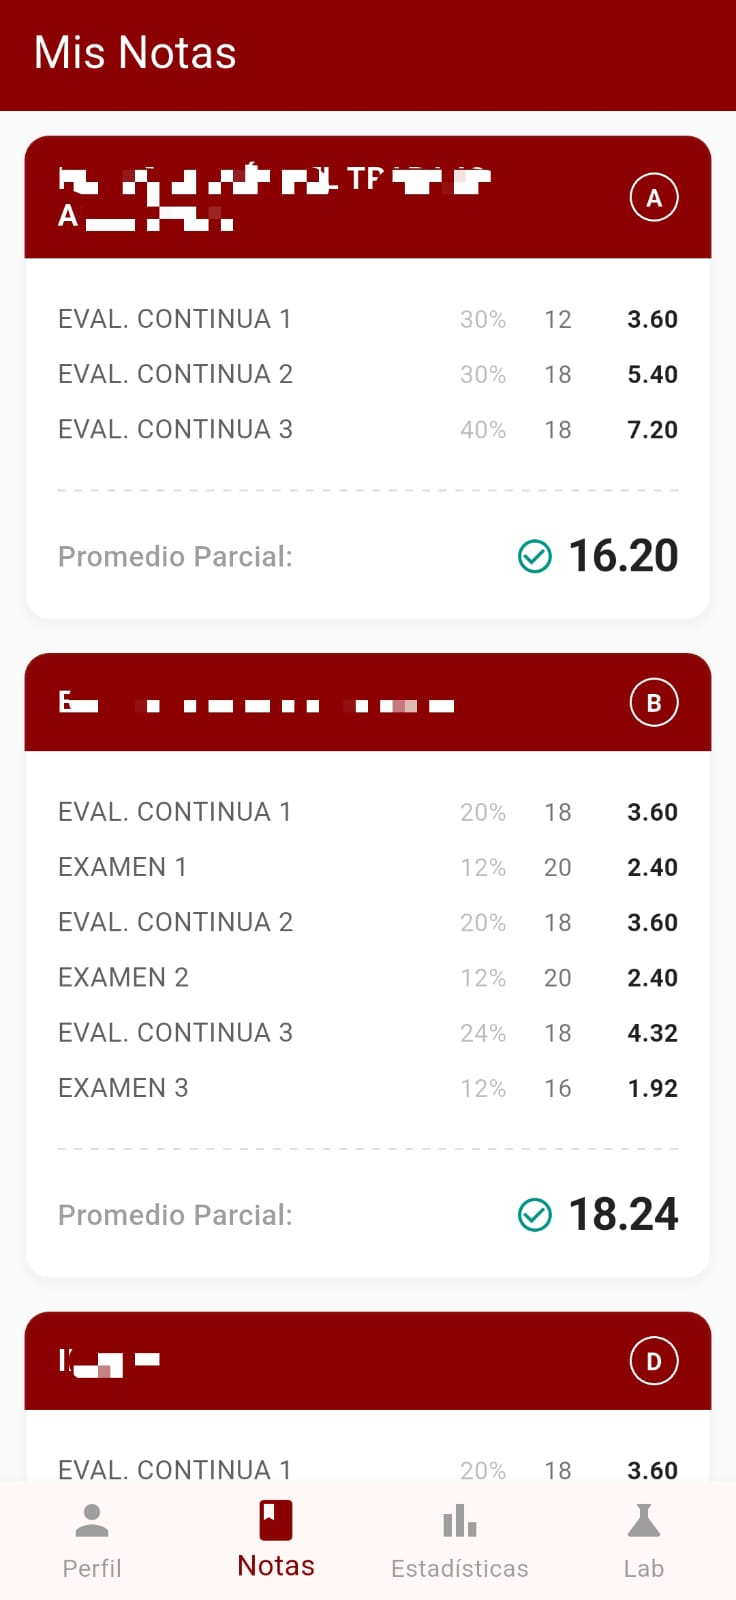
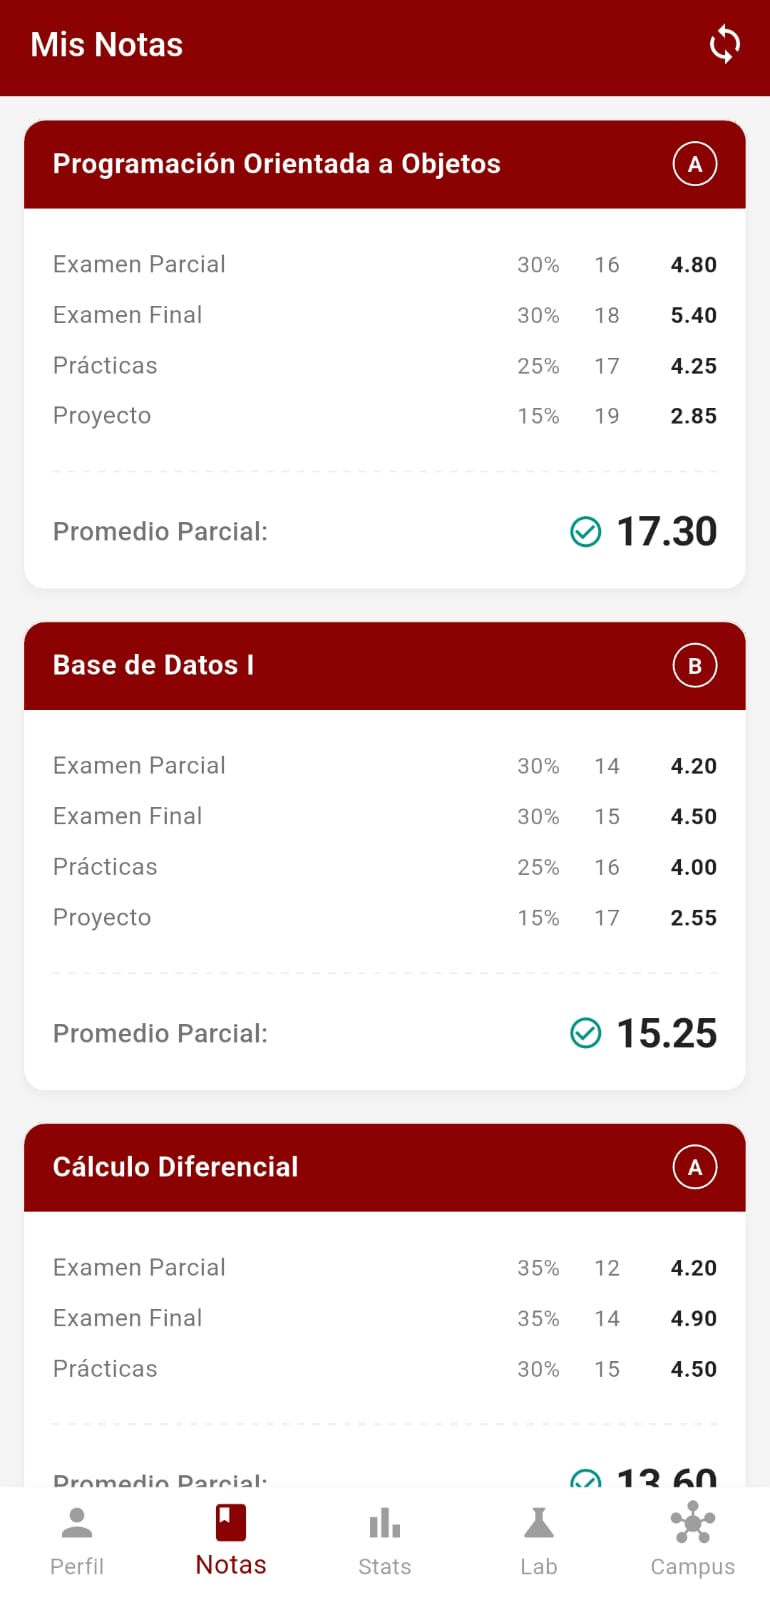
Refactor code structure for improved readability and maintainability

Changed region(s): [[0.0312, 0.3125, 0.9688, 1.0], [0.0, 0.0, 1.0, 0.2812]]

diff --git a/src/components/PrivacyPhone.tsx b/src/components/PrivacyPhone.tsx
@@ -1,19 +1,24 @@
 import React, { useEffect, useRef, useState } from 'react';
 
 const screenshots = [
-  { src: '/screenshots/login.png',        alt: 'UniCali — inicio de sesión con cuenta universitaria UNSA' },
-  { src: '/screenshots/campus.png',       alt: 'UniCali — Campus Social: foro y comunidad universitaria' },
-  { src: '/screenshots/notas.png',        alt: 'UniCali — visualización de notas y calificaciones UNSA' },
-  { src: '/screenshots/estadisticas.png', alt: 'UniCali — estadísticas y promedio ponderado académico' },
-  { src: '/screenshots/perfil.png',       alt: 'UniCali — perfil del estudiante universitario' },
-  { src: '/screenshots/lab.png',          alt: 'UniCali — Laboratorio: simulación de notas y sustitutorios' },
+  { src: '/screenshots/login.jpg', alt: 'UniCali - inicio de sesion' },
+  { src: '/screenshots/campus.png', alt: 'UniCali - campus universitario' },
+  { src: '/screenshots/campus-gente.png', alt: 'UniCali - comunidad universitaria' },
+  { src: '/screenshots/notas.png', alt: 'UniCali - notas academicas' },
+  { src: '/screenshots/estadisticas.png', alt: 'UniCali - estadisticas academicas' },
+  { src: '/screenshots/perfil.png', alt: 'UniCali - perfil de estudiante' },
+  { src: '/screenshots/lab.png', alt: 'UniCali - laboratorio de simulacion' },
+  { src: '/screenshots/calculadora.png', alt: 'UniCali - calculadora academica' },
+  { src: '/screenshots/rese%C3%B1as-docente.png', alt: 'UniCali - resenas de docente' },
 ];
 
 const PrivacyPhone: React.FC = () => {
   const phoneRef = useRef<HTMLDivElement>(null);
+  const touchStartX = useRef<number | null>(null);
   const [rotation, setRotation] = useState({ x: 0, y: 0 });
   const [privacyOpacity, setPrivOpacity] = useState(0);
   const [currentIndex, setCurrentIndex] = useState(0);
+  const [swipeOffset, setSwipeOffset] = useState(0);
   const [scale, setScale] = useState(1);
 
   useEffect(() => {
@@ -64,9 +69,40 @@ const PrivacyPhone: React.FC = () => {
   useEffect(() => {
     const interval = setInterval(() => {
       setCurrentIndex((prev) => (prev + 1) % screenshots.length);
+      setSwipeOffset(0);
     }, 3000);
     return () => clearInterval(interval);
   }, []);
+
+  const goToIndex = (index: number) => {
+    setCurrentIndex((index + screenshots.length) % screenshots.length);
+    setSwipeOffset(0);
+  };
+
+  const handlePointerDown = (e: React.PointerEvent<HTMLDivElement>) => {
+    touchStartX.current = e.clientX;
+    e.currentTarget.setPointerCapture(e.pointerId);
+  };
+
+  const handlePointerMove = (e: React.PointerEvent<HTMLDivElement>) => {
+    if (touchStartX.current === null) return;
+    const delta = e.clientX - touchStartX.current;
+    setSwipeOffset(Math.max(-48, Math.min(48, delta)));
+  };
+
+  const handlePointerUp = (e: React.PointerEvent<HTMLDivElement>) => {
+    if (touchStartX.current === null) return;
+    const delta = e.clientX - touchStartX.current;
+    touchStartX.current = null;
+    e.currentTarget.releasePointerCapture(e.pointerId);
+
+    if (Math.abs(delta) > 42) {
+      goToIndex(currentIndex + (delta < 0 ? 1 : -1));
+      return;
+    }
+
+    setSwipeOffset(0);
+  };
 
   return (
     <div className="phone-scene-3d" style={{ perspective: '1200px', display: 'flex', justifyContent: 'center', alignItems: 'center', width: '100%', overflow: 'hidden' }}>
@@ -81,7 +117,8 @@ const PrivacyPhone: React.FC = () => {
           transform: `scale(${scale}) rotateX(${rotation.x}deg) rotateY(${rotation.y}deg)`,
           transition: 'transform 0.1s ease-out',
           borderRadius: '30px',
-          boxShadow: '0 30px 80px rgba(0,0,0,0.2)'
+          boxShadow: '0 30px 80px rgba(0,0,0,0.2)',
+          userSelect: 'none'
         }}
       >
         <div style={{ position: 'absolute', inset: 0, background: 'linear-gradient(160deg, #c29958, #8b004a)', borderRadius: '30px', transform: 'translateZ(-12px)' }} />
@@ -94,7 +131,15 @@ const PrivacyPhone: React.FC = () => {
           overflow: 'hidden',
           transform: 'translateZ(1px)',
           border: '2px solid rgba(255,255,255,0.05)'
-        }}>
+        }}
+          onPointerDown={handlePointerDown}
+          onPointerMove={handlePointerMove}
+          onPointerUp={handlePointerUp}
+          onPointerCancel={() => {
+            touchStartX.current = null;
+            setSwipeOffset(0);
+          }}
+        >
           <div style={{
             position: 'absolute',
             inset: 0,
@@ -105,23 +150,34 @@ const PrivacyPhone: React.FC = () => {
             transition: 'opacity 0.2s ease'
           }} />
 
-          {screenshots.map(({ src, alt }, index) => (
-            <img
-              key={src}
-              src={src}
-              alt={alt}
-              loading={index === 0 ? 'eager' : 'lazy'}
-              style={{
-                position: 'absolute',
-                inset: 0,
-                width: '100%',
-                height: '100%',
-                objectFit: 'cover',
-                opacity: currentIndex === index ? 1 : 0,
-                transition: 'opacity 0.8s ease-in-out'
-              }}
-            />
-          ))}
+          <div
+            style={{
+              display: 'flex',
+              width: `${screenshots.length * 100}%`,
+              height: '100%',
+              transform: `translate3d(calc(${-currentIndex * (100 / screenshots.length)}% + ${swipeOffset}px), 0, 0)`,
+              transition: swipeOffset === 0 ? 'transform 850ms cubic-bezier(0.22, 1, 0.36, 1)' : 'none',
+              willChange: 'transform'
+            }}
+          >
+            {screenshots.map(({ src, alt }, index) => (
+              <img
+                key={src}
+                src={src}
+                alt={alt}
+                loading={index === 0 ? 'eager' : 'lazy'}
+                draggable={false}
+                style={{
+                  width: `${100 / screenshots.length}%`,
+                  height: '100%',
+                  flex: '0 0 auto',
+                  objectFit: 'cover',
+                  transform: currentIndex === index ? 'scale(1)' : 'scale(1.015)',
+                  transition: 'transform 850ms cubic-bezier(0.22, 1, 0.36, 1)'
+                }}
+              />
+            ))}
+          </div>
 
           <div style={{
             position: 'absolute',
@@ -134,6 +190,39 @@ const PrivacyPhone: React.FC = () => {
             borderRadius: '10px',
             zIndex: 20
           }} />
+
+          <div style={{
+            position: 'absolute',
+            left: '50%',
+            bottom: '14px',
+            transform: 'translateX(-50%)',
+            display: 'flex',
+            gap: '5px',
+            zIndex: 20,
+            padding: '6px 8px',
+            borderRadius: '999px',
+            background: 'rgba(0,0,0,0.34)',
+            backdropFilter: 'blur(10px)'
+          }}>
+            {screenshots.map(({ src }, index) => (
+              <button
+                key={`${src}-indicator`}
+                type="button"
+                aria-label={`Ver captura ${index + 1}`}
+                onClick={() => goToIndex(index)}
+                style={{
+                  width: currentIndex === index ? '16px' : '5px',
+                  height: '5px',
+                  border: 0,
+                  borderRadius: '999px',
+                  padding: 0,
+                  background: currentIndex === index ? '#f2efe7' : 'rgba(242,239,231,0.45)',
+                  transition: 'width 300ms ease, background 300ms ease',
+                  cursor: 'pointer'
+                }}
+              />
+            ))}
+          </div>
         </div>
       </div>
     </div>